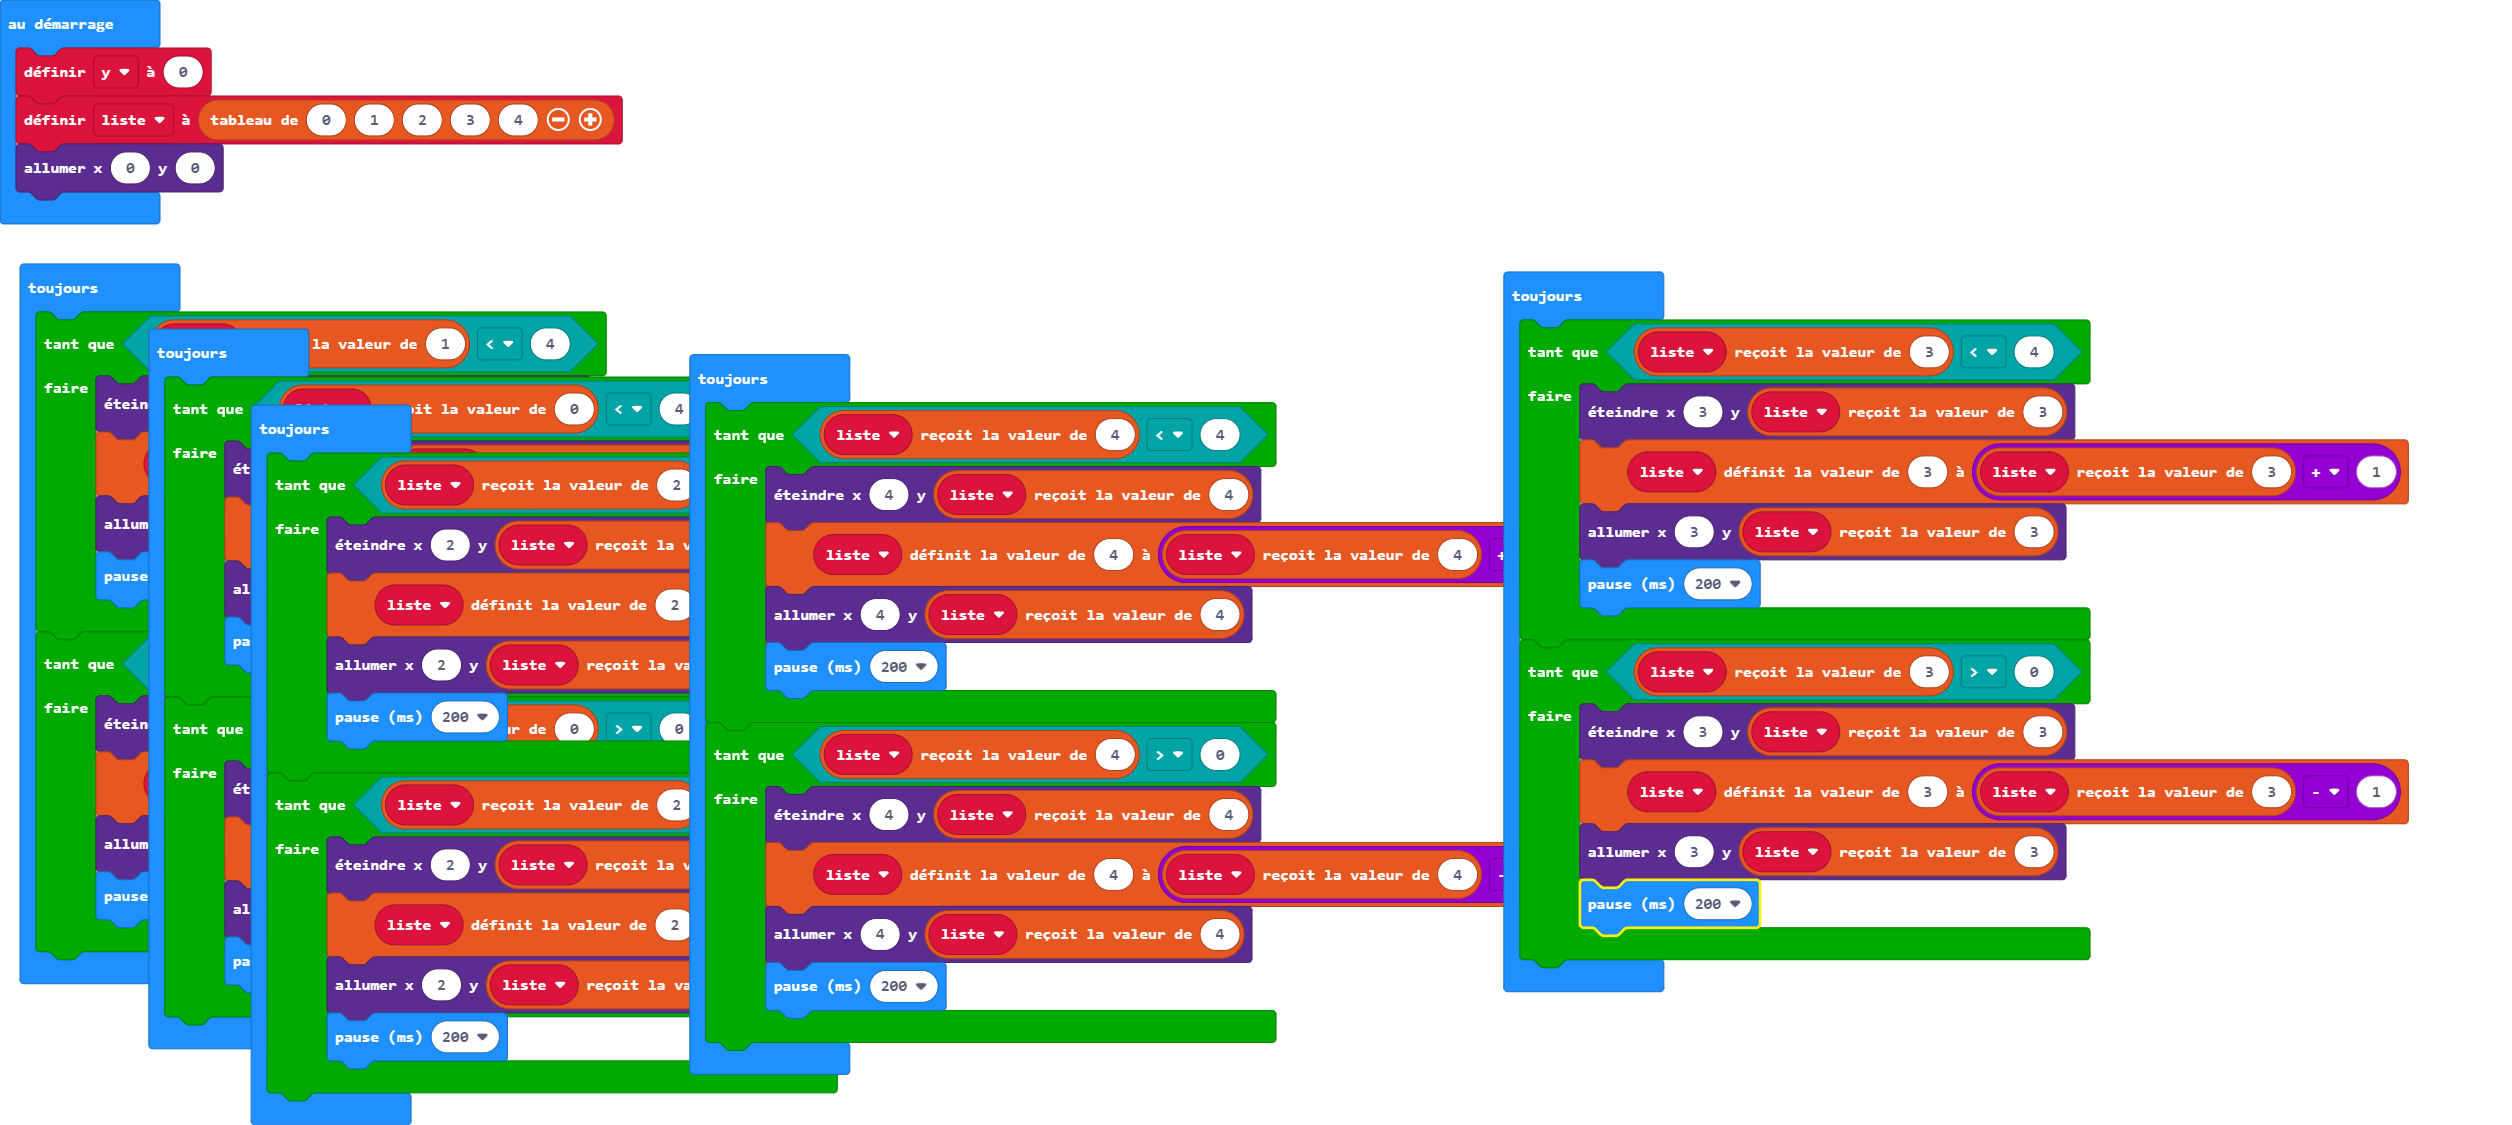
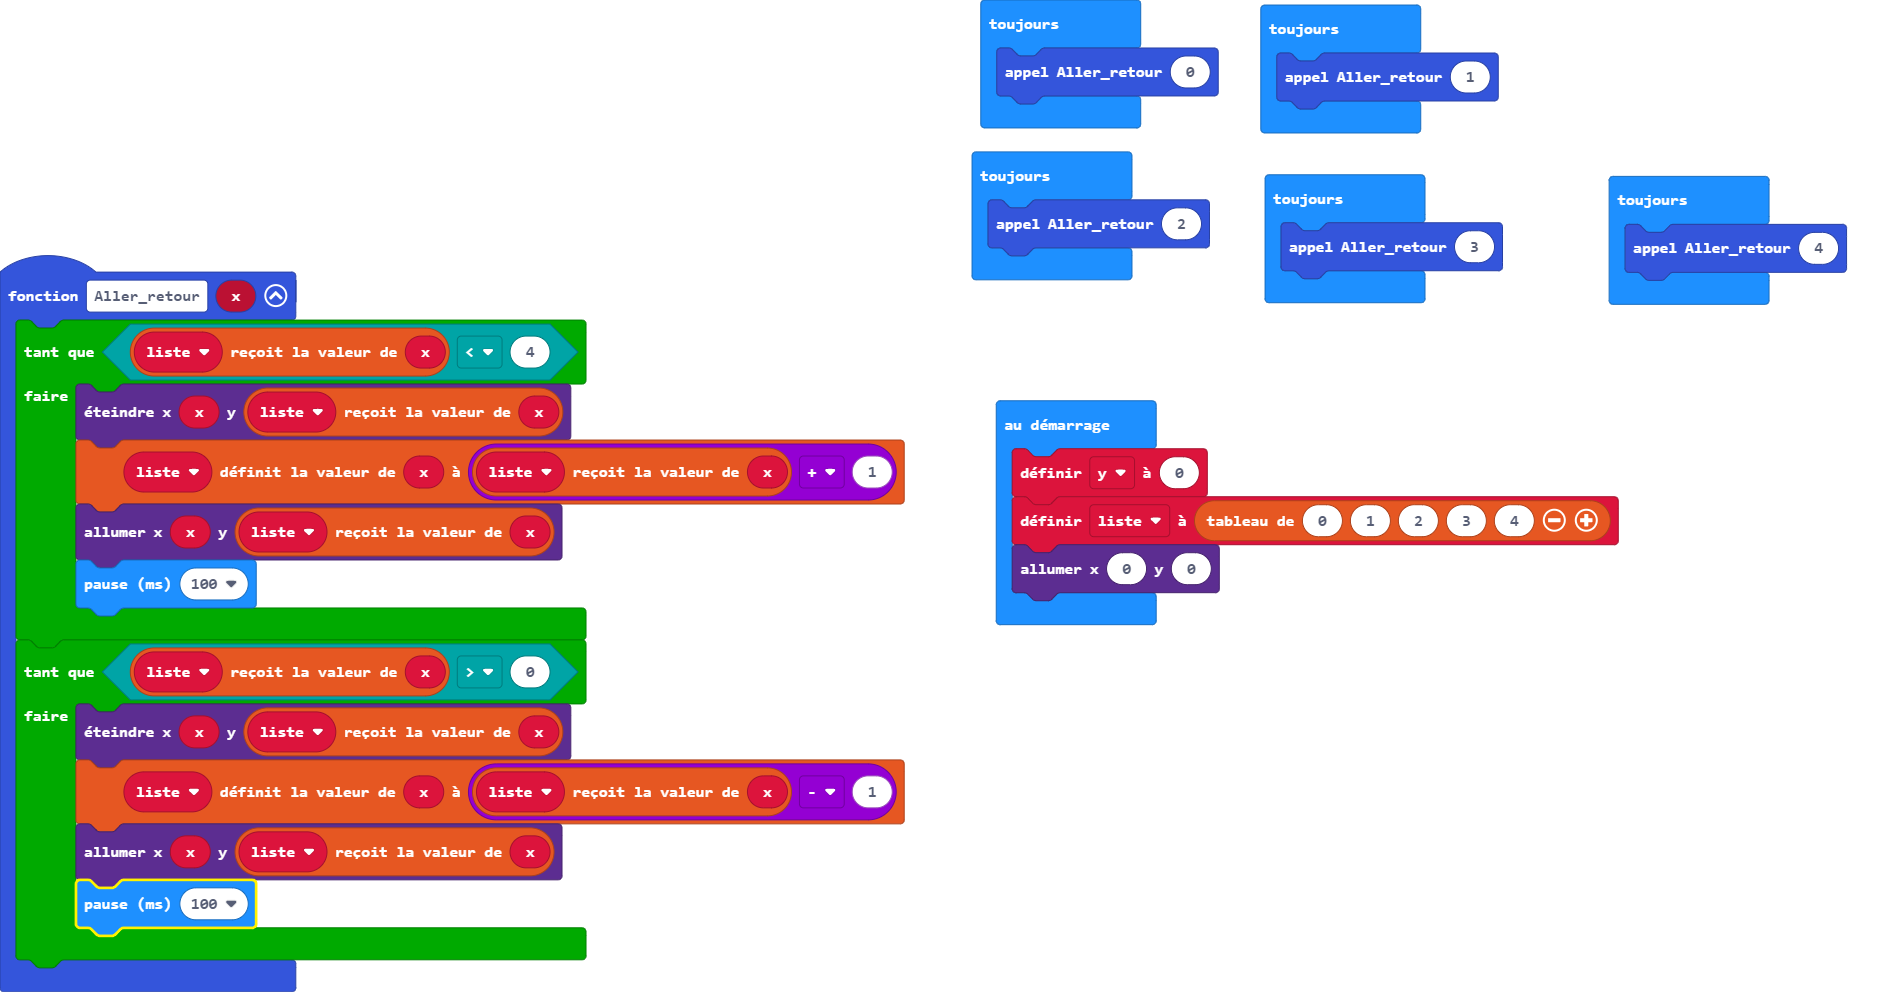
Fonctions et tableaux

diff --git a/main.ts b/main.ts
@@ -1,73 +1,33 @@
+function Aller_retour (x: number) {
+    while (liste[x] < 4) {
+        led.unplot(x, liste[x])
+        liste[x] = liste[x] + 1
+        led.plot(x, liste[x])
+        basic.pause(100)
+    }
+    while (liste[x] > 0) {
+        led.unplot(x, liste[x])
+        liste[x] = liste[x] - 1
+        led.plot(x, liste[x])
+        basic.pause(100)
+    }
+}
+let liste: number[] = []
 let y = 0
-let liste = [0, 1, 2, 3, 4]
+liste = [0, 1, 2, 3, 4]
 led.plot(0, 0)
 basic.forever(function () {
-    while (liste[1] < 4) {
-        led.unplot(1, liste[1])
-        liste[1] = liste[1] + 1
-        led.plot(1, liste[1])
-        basic.pause(200)
-    }
-    while (liste[1] > 0) {
-        led.unplot(1, liste[1])
-        liste[1] = liste[1] - 1
-        led.plot(1, liste[1])
-        basic.pause(200)
-    }
+    Aller_retour(0)
 })
 basic.forever(function () {
-    while (liste[0] < 4) {
-        led.unplot(0, liste[0])
-        liste[0] = liste[0] + 1
-        led.plot(0, liste[0])
-        basic.pause(200)
-    }
-    while (liste[0] > 0) {
-        led.unplot(0, liste[0])
-        liste[0] = liste[0] - 1
-        led.plot(0, liste[0])
-        basic.pause(200)
-    }
+    Aller_retour(1)
 })
 basic.forever(function () {
-    while (liste[3] < 4) {
-        led.unplot(3, liste[3])
-        liste[3] = liste[3] + 1
-        led.plot(3, liste[3])
-        basic.pause(200)
-    }
-    while (liste[3] > 0) {
-        led.unplot(3, liste[3])
-        liste[3] = liste[3] - 1
-        led.plot(3, liste[3])
-        basic.pause(200)
-    }
+    Aller_retour(2)
 })
 basic.forever(function () {
-    while (liste[4] < 4) {
-        led.unplot(4, liste[4])
-        liste[4] = liste[4] + 1
-        led.plot(4, liste[4])
-        basic.pause(200)
-    }
-    while (liste[4] > 0) {
-        led.unplot(4, liste[4])
-        liste[4] = liste[4] - 1
-        led.plot(4, liste[4])
-        basic.pause(200)
-    }
+    Aller_retour(3)
 })
 basic.forever(function () {
-    while (liste[2] < 4) {
-        led.unplot(2, liste[2])
-        liste[2] = liste[2] + 1
-        led.plot(2, liste[2])
-        basic.pause(200)
-    }
-    while (liste[2] > 0) {
-        led.unplot(2, liste[2])
-        liste[2] = liste[2] - 1
-        led.plot(2, liste[2])
-        basic.pause(200)
-    }
+    Aller_retour(4)
 })
